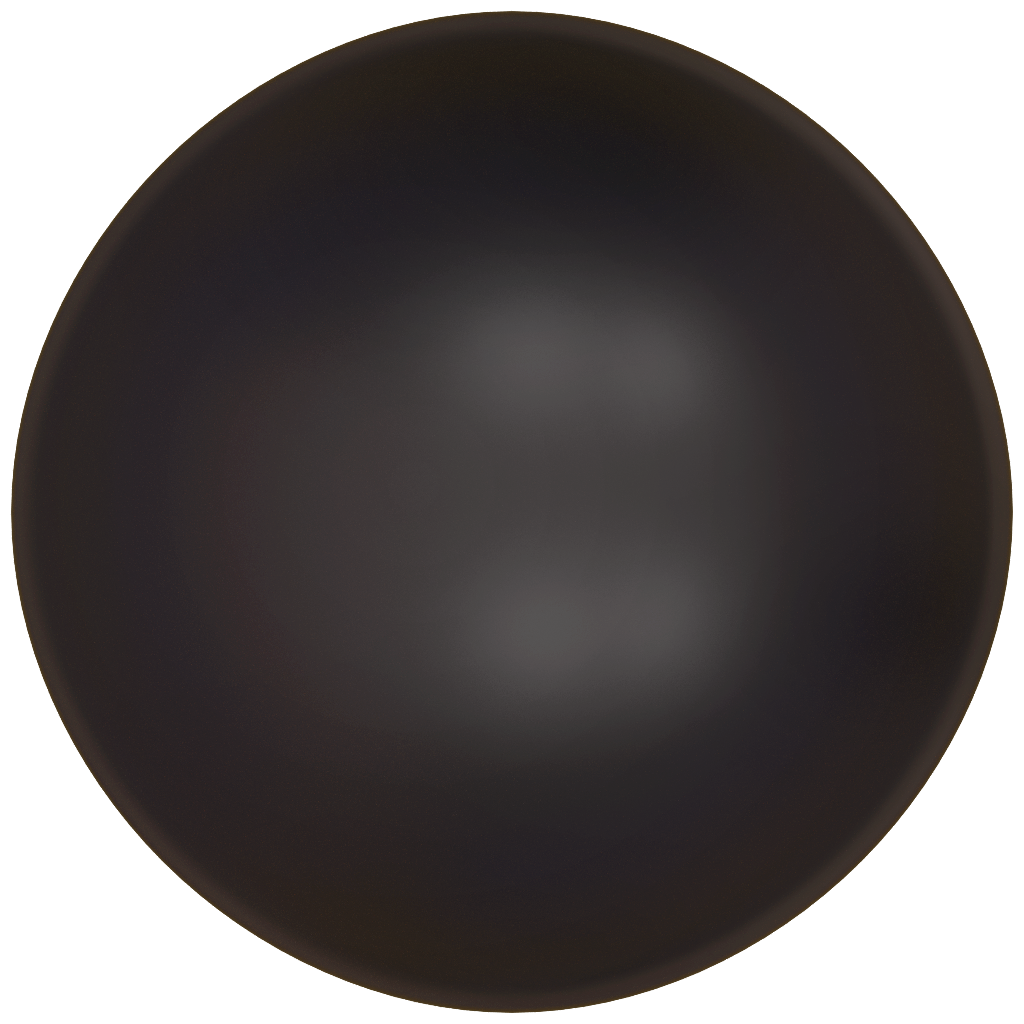
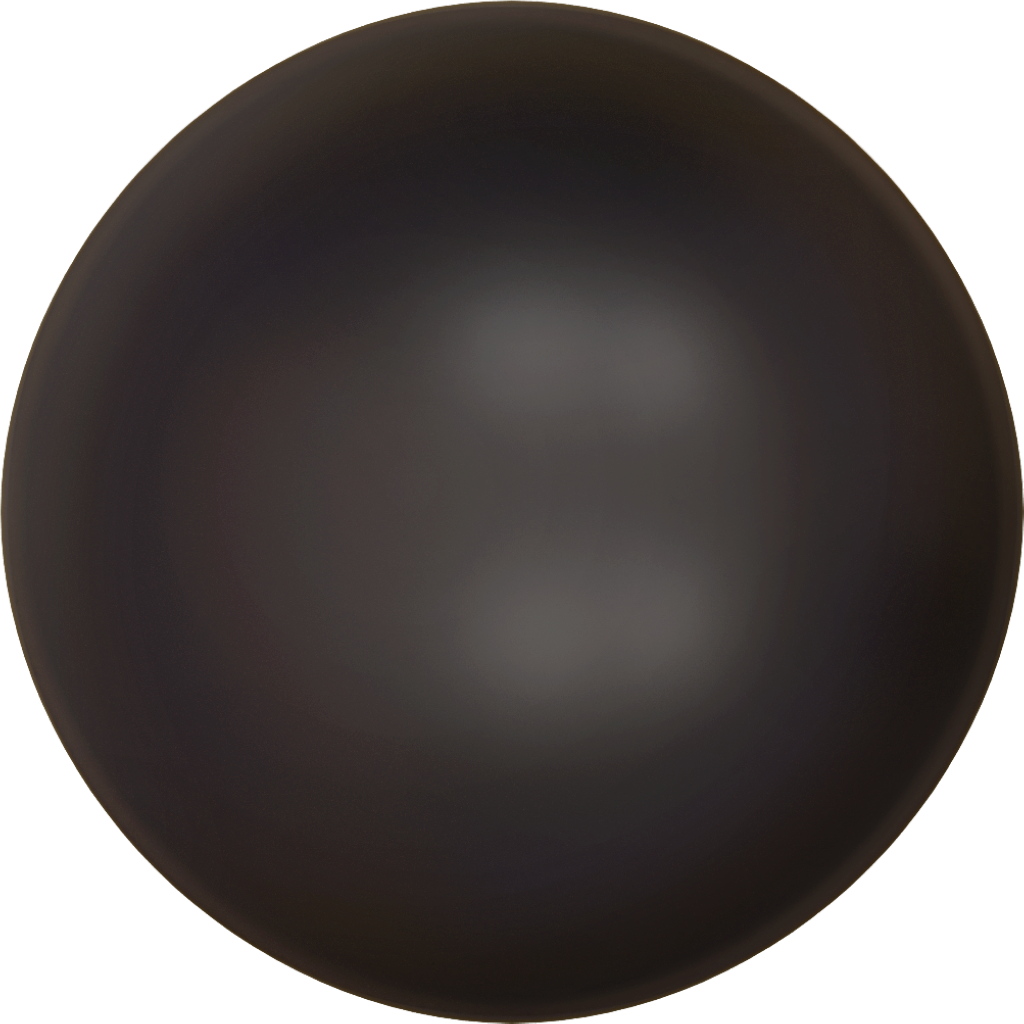
floaty stone graphics were annoying me
reduce stone float effect and give more contrast between white/black

diff --git a/BoardController.py b/BoardController.py
@@ -236,7 +236,7 @@ class StonePool:
 
         brect = shadow.boundingRect()
         shadow.setTransformOriginPoint(-self.bc.increment/2, -self.bc.increment/2)
-        shadow.setOffset(QPointF(brect.width()*-0.03, brect.height()*-.03))
+        shadow.setOffset(QPointF(brect.width()*-0.03, brect.height()*-0.02))
         shadow.setScale(2.03*self.bc.increment/brect.width())
         
         group = QGraphicsItemGroup()
